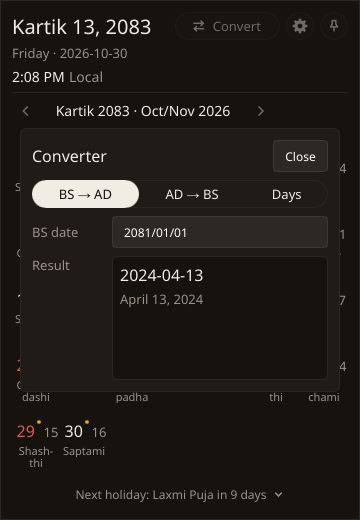
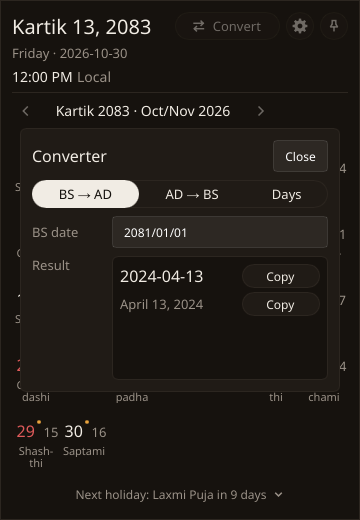
feat(site): MitiBar 1.0 screenshots, copy and swap, new size numbers
The screenshots show 1.0's default lines, the four presets, the swap button, the Copy buttons and today's tile. The binary and idle memory numbers come from the 1.0 benchmarks: the font subsets made the app smaller. Merge with the 1.0.0 release, since the downloads still point at beta.3 until then.

diff --git a/site/src/data/mitibar.ts b/site/src/data/mitibar.ts
@@ -56,11 +56,14 @@ export const SBOM = file(`MitiBar-${MITIBAR_VERSION}.cdx.json`);
 export const BENCHMARKS = `${MITIBAR_REPO}/blob/main/docs/benchmarks-widget.md`;
 export const SIGNING_POLICY = `${MITIBAR_REPO}#code-signing-policy`;
 
-/** Measured on 2026-10-19 on one Windows 11 laptop (Core i5-12500H); see BENCHMARKS. */
+/**
+ * Measured on one Windows 11 laptop (Core i5-12500H); see BENCHMARKS. The binary and idle memory
+ * are from 2026-10-30, in MiB; the start time is from 2026-10-19.
+ */
 export const numbers = {
-  binaryMb: "11.6",
+  binaryMb: "11.0",
   startMs: "68",
-  privateMb: "34",
+  privateMb: "33",
   machine: "a Windows 11 laptop with a Core i5-12500H",
 };
 
